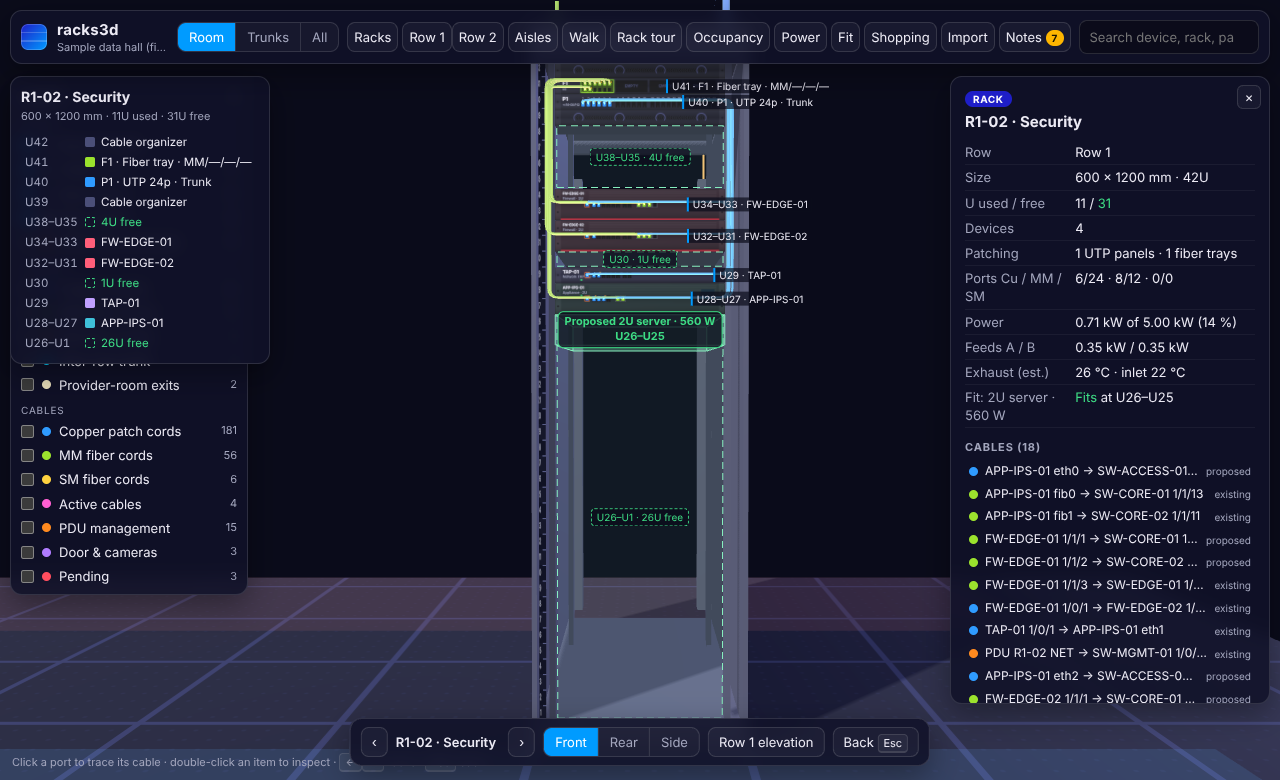
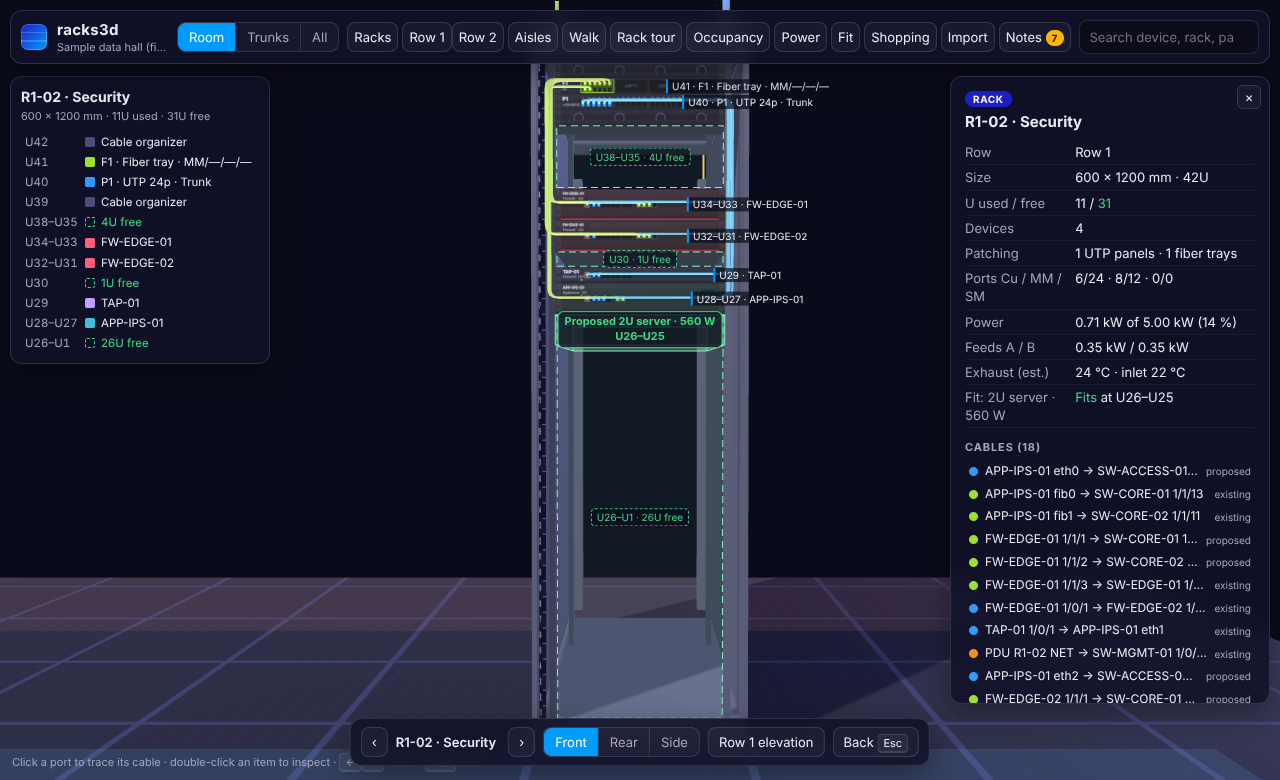
Fix the exhaust estimate: the 3.16 × W / CFM rule gives °F, not °C
The heat estimate added the sensible-heat rule's result to the inlet as
if it were Celsius, so every exhaust read 1.8 times too far above the
inlet (the busiest sample rack showed 44 °C instead of 34 °C). It now
uses ΔT(°C) = 1.76 × W / CFM, the heat map's colour scale follows the
realistic range, a test pins a rack at full budget to ~14.7 °C over the
inlet, and the README screenshots are retaken.

Claude-Session: https://claude.ai/code/session_01P6uqF5z4GHB232KJNtu7je

Changed region(s): [[0.0, 0.4615, 0.1875, 0.7692]]

diff --git a/js/racks3d.js b/js/racks3d.js
@@ -58,7 +58,7 @@
   const PLAN = window.Racks3dPlan;
   const power = r => PLAN.rackPower(r, DATA);
   const kw = w => (w / 1000).toFixed(w < 10000 ? 2 : 1) + ' kW';
-  const HEAT = [[22, '#2f9bff'], [30, '#3ddc84'], [36, '#ffd23f'], [42, '#ff8a1f'], [48, '#ff4d5e']];
+  const HEAT = [[22, '#2f9bff'], [27, '#3ddc84'], [31, '#ffd23f'], [35, '#ff8a1f'], [40, '#ff4d5e']];
   function heatColor(t) {
     const c = new THREE.Color(HEAT[0][1]);
     for (let i = 1; i < HEAT.length; i++) {
@@ -2372,7 +2372,7 @@
         '<td>' + kw(p.feedA) + '</td><td>' + kw(p.feedB) + '</td><td>' + dot(p.exhaustC) + ' ' + Math.round(p.exhaustC) + ' °C</td></tr>').join('') +
       '</tbody></table></div>' +
       '<div class="legend"><span><i class="dot" style="background:var(--accent)"></i>Under 80 %</span><span><i class="dot" style="background:var(--new)"></i>80–100 %</span><span><i class="dot" style="background:var(--pending)"></i>Over budget: with 2N feeds, one feed alone could not carry the rack</span><span><i class="dot" style="background:#fff"></i>80 % mark</span></div>' +
-      '<p class="sub" style="margin-top:10px">The exhaust is an estimate, not a measurement: fans sized for the rack budget (' + powerOfData.cfmPerKw + ' CFM per kW), so ΔT = 3.16 × W ÷ CFM.</p>',
+      '<p class="sub" style="margin-top:10px">The exhaust is an estimate, not a measurement: fans sized for the rack budget (' + powerOfData.cfmPerKw + ' CFM per kW), so ΔT (°C) = 1.76 × W ÷ CFM, the usual 3.16 × W ÷ CFM in °F.</p>',
       e => { const tr = e.target.closest('[data-r]'); if (tr) { closeModal(); openRack(rackById[tr.dataset.r]); } });
   }
   const powerOfData = Object.assign({}, PLAN.POWER_DEFAULTS, DATA.power || {});

diff --git a/js/plan.js b/js/plan.js
@@ -104,13 +104,14 @@
     return PER_U.has(it.type) ? w * Math.max(1, it.u || 1) : w;
   }
   // Load against the rack's budget, split over its A and B feeds, and an estimate of the
-  // exhaust temperature: the fans are sized for the budget (cfmPerKw), so ΔT = 3.16 × W / CFM.
+  // exhaust temperature: the fans are sized for the budget (cfmPerKw), and the sensible-heat
+  // rule ΔT(°F) = 3.16 × W / CFM is ΔT(°C) = 1.76 × W / CFM.
   function rackPower(rack, data) {
     const P = powerOf(data);
     const w = (rack.items || []).reduce((s, it) => s + watts(it), 0);
     const budget = (rack.powerKw || P.rackKw) * 1000;
     const util = budget ? w / budget : 0;
-    const dT = budget ? 3.16 * w / (P.cfmPerKw * budget / 1000) : 0;
+    const dT = budget ? 1.76 * w / (P.cfmPerKw * budget / 1000) : 0;
     return {
       w, budget, util, feedA: w / 2, feedB: w / 2,
       inletC: P.inletC, exhaustC: P.inletC + dT,

diff --git a/README.md b/README.md
@@ -50,7 +50,8 @@ rack over its budget is flagged red, and one above 80 % amber; both appear in **
 
 The exhaust temperature is an **estimate**, not a measurement: the inlet is the cold-aisle temperature
 (`power.inletC`, 22 °C) and the fans are assumed to be sized for the budget (`power.cfmPerKw`, 120 CFM per
-kW), so ΔT = 3.16 × W ÷ CFM. It is enough to see which racks will run hot.
+kW), so ΔT (°C) = 1.76 × W ÷ CFM, the sensible-heat rule usually written ΔT (°F) = 3.16 × W ÷ CFM. A rack at
+its full budget runs about 15 °C over the inlet. It is enough to see which racks will run hot.
 
 | Power panel | Rack card |
 |---|---|
